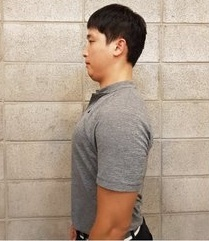
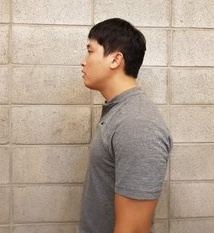
Analysis photo file with opencv

diff --git a/front/worker/opencv_turtle.py b/front/worker/opencv_turtle.py
@@ -1,0 +1,131 @@
+import math
+import cv2
+
+def output_keypoints(image_path, proto_file, weights_file, threshold, model_name, BODY_PARTS):
+    global points
+
+    # 이미지 읽어오기
+    frame = cv2.imread(image_path)
+
+    # 네트워크 불러오기
+    net = cv2.dnn.readNetFromCaffe(proto_file, weights_file)
+
+    # 입력 이미지의 사이즈 정의
+    image_height = 368
+    image_width = 368
+
+    # 네트워크에 넣기 위한 전처리
+    input_blob = cv2.dnn.blobFromImage(frame, 1.0 / 255, (image_width, image_height), (0, 0, 0), swapRB=False,
+                                       crop=False)
+
+    # 전처리된 blob 네트워크에 입력
+    net.setInput(input_blob)
+
+    # 결과 받아오기
+    out = net.forward()
+    # The output is a 4D matrix :
+    # The first dimension being the image ID ( in case you pass more than one image to the network ).
+    # The second dimension indicates the index of a keypoint.
+    # The model produces Confidence Maps and Part Affinity maps which are all concatenated.
+    # For COCO model it consists of 57 parts – 18 keypoint confidence Maps + 1 background + 19*2 Part Affinity Maps. Similarly, for MPI, it produces 44 points.
+    # We will be using only the first few points which correspond to Keypoints.
+    # The third dimension is the height of the output map.
+    out_height = out.shape[2]
+    # The fourth dimension is the width of the output map.
+    out_width = out.shape[3]
+
+    # 원본 이미지의 높이, 너비를 받아오기
+    frame_height, frame_width = frame.shape[:2]
+
+    # 포인트 리스트 초기화
+    points = []
+
+    print(f"\n========== {model_name} ==========")
+    for i in range(len(BODY_PARTS)):
+
+        # 신체 부위의 confidence map
+        prob_map = out[0, i, :, :]
+
+        # 최소값, 최대값, 최소값 위치, 최대값 위치
+        min_val, prob, min_loc, point = cv2.minMaxLoc(prob_map)
+
+        # 원본 이미지에 맞게 포인트 위치 조정
+        x = (frame_width * point[0]) / out_width
+        x = int(x)
+        y = (frame_height * point[1]) / out_height
+        y = int(y)
+
+        if prob > threshold:  # [pointed]
+            if (i == 0 or i == 1 or i == 17 or i == 18):
+                cv2.circle(frame, (x, y), 5, (0, 255, 255), thickness=-1, lineType=cv2.FILLED)
+                cv2.putText(frame, str(i), (x, y), cv2.FONT_HERSHEY_SIMPLEX, 0.6, (0, 0, 255), 1, lineType=cv2.LINE_AA)
+
+            points.append((x, y))
+            # print(f"[pointed] {BODY_PARTS[i]} ({i}) => prob: {prob:.5f} / x: {x} / y: {y}")
+
+        else:  # [not pointed]
+            if (i == 0 or i == 1 or i == 17 or i == 18):
+                cv2.circle(frame, (x, y), 5, (0, 255, 255), thickness=-1, lineType=cv2.FILLED)
+                cv2.putText(frame, str(i), (x, y), cv2.FONT_HERSHEY_SIMPLEX, 0.6, (255, 0, 0), 1, lineType=cv2.LINE_AA)
+
+            points.append(None)
+            # print(f"[not pointed] {BODY_PARTS[i]} ({i}) => prob: {prob:.5f} / x: {x} / y: {y}")
+
+    return frame
+
+
+def output_keypoints_with_lines(POSE_PAIRS, frame):
+    # 프레임 복사
+    frame_line = frame.copy()
+
+
+    # Neck 과 (LEar 또는 REar) 좌표값이 존재한다면 degree 측정
+    if (points[1] is not None) and (points[18] is not None):
+        calculate_degree(point_1=points[1], point_2=points[18], frame=frame_line)
+
+    for pair in POSE_PAIRS:
+        part_a = pair[0]  # 0 (Head)
+        part_b = pair[1]  # 1 (Neck)
+        if points[part_a] and points[part_b]:
+            print(f"[linked] {part_a} {points[part_a]} <=> {part_b} {points[part_b]}")
+            # Neck 과 Ear 이라면 분홍색 선
+            if (part_a == 1 and part_b == 18) or (part_a == 1 and part_b == 17):
+                cv2.line(frame, points[part_a], points[part_b], (255, 0, 255), 3)
+            else:  # 노란색 선
+                cv2.line(frame, points[part_a], points[part_b], (0, 255, 0), 3)
+        else:
+            print(f"[not linked] {part_a} {points[part_a]} <=> {part_b} {points[part_b]}")
+
+    # 포인팅 되어있는 프레임과 라인까지 연결된 프레임을 가로로 연결
+    frame_horizontal = cv2.hconcat([frame, frame_line])
+    cv2.imshow("Output_Keypoints_With_Lines", frame_horizontal)
+    cv2.waitKey(0)
+    cv2.destroyAllWindows()
+
+
+def calculate_degree(point_1, point_2, frame):
+    # 역탄젠트 구하기
+    dx = point_2[0] - point_1[0]
+    dy = point_2[1] - point_1[1]
+    rad = math.atan2(abs(dy), abs(dx))
+
+    # radian 을 degree 로 변환
+    deg = rad * 180 / math.pi
+
+    # degree 가 80'보다 작으면 거북목으로 진단
+    if deg < 80:
+        string = "Turtle"
+        cv2.putText(frame, string, (0, 25), cv2.FONT_HERSHEY_DUPLEX, 1, (255, 0, 255))
+        print(f"[degree] {deg} ({string})")
+    else:
+        string = "Normal"
+        cv2.putText(frame, string, (0, 25), cv2.FONT_HERSHEY_DUPLEX, 1, (255, 0, 255))
+        print(f"[degree] {deg} ({string})")
+
+
+# ====== main ========
+BODY_PARTS_BODY_25 = {0: "Nose", 1: "Neck", 2: "RShoulder", 3: "RElbow", 4: "RWrist",
+                      5: "LShoulder", 6: "LElbow", 7: "LWrist", 8: "MidHip", 9: "RHip",
+                      10: "RKnee", 11: "RAnkle", 12: "LHip", 13: "LKnee", 14: "LAnkle",
+                      15: "REye", 16: "LEye", 17: "REar", 18: "LEar", 19: "LBigToe",
+                      20: "LSmallToe", 21: "LHeel", 22: "RBigToe", 23: "RSmallToe", 24: "RHeel", 25: "Background"}

diff --git a/front/worker/opencv_main.py b/front/worker/opencv_main.py
@@ -1,0 +1,28 @@
+from opencv_turtle import *
+
+if __name__ == "__main__":
+    POSE_PAIRS_BODY_25 = [
+        [0,1], # nose - neck
+        [1,18], # neck - LEar
+        [1,17] # neck - REar
+    ]
+
+    # 신경 네트워크의 구조를 지정하는 prototxt 파일 (다양한 계층이 배열되는 방법 등)
+    protoFile_body_25 = "./pose_deploy.prototxt"
+
+    # 훈련된 모델의 weight 를 저장하는 caffemodel 파일
+    weightsFile_body_25 = "./pose_iter_584000.caffemodel"
+
+    # 이미지 경로 (출처: https://news.nate.com/view/20190906n05074?mid=n0400)
+    path_list = []
+    turtleneck = "./image_copy.jpg"
+    normalneck = "../raspberry/normal.jpeg"
+    path_list.extend([turtleneck, normalneck])
+
+    # 키포인트를 저장할 빈 리스트
+    points = []
+
+    for path in path_list:
+        frame_man = output_keypoints(image_path=path, proto_file=protoFile_body_25, weights_file=weightsFile_body_25,
+                                     threshold=0.1, model_name=path.split('/')[-1], BODY_PARTS=BODY_PARTS_BODY_25)
+        output_keypoints_with_lines(POSE_PAIRS=POSE_PAIRS_BODY_25, frame=frame_man)

diff --git a/front/raspberry/photo_encoding.py b/front/raspberry/photo_encoding.py
@@ -17,7 +17,7 @@ def loadImage(file_path):
 
 
 if __name__ == "__main__":
-    image_path = "./normal.jpeg"
+    image_path = "./turtleneck.jpeg"
     src, retval, buf, jpg_as_text = loadImage(image_path)
 
     # JSON 형식으로 서버에 전달
